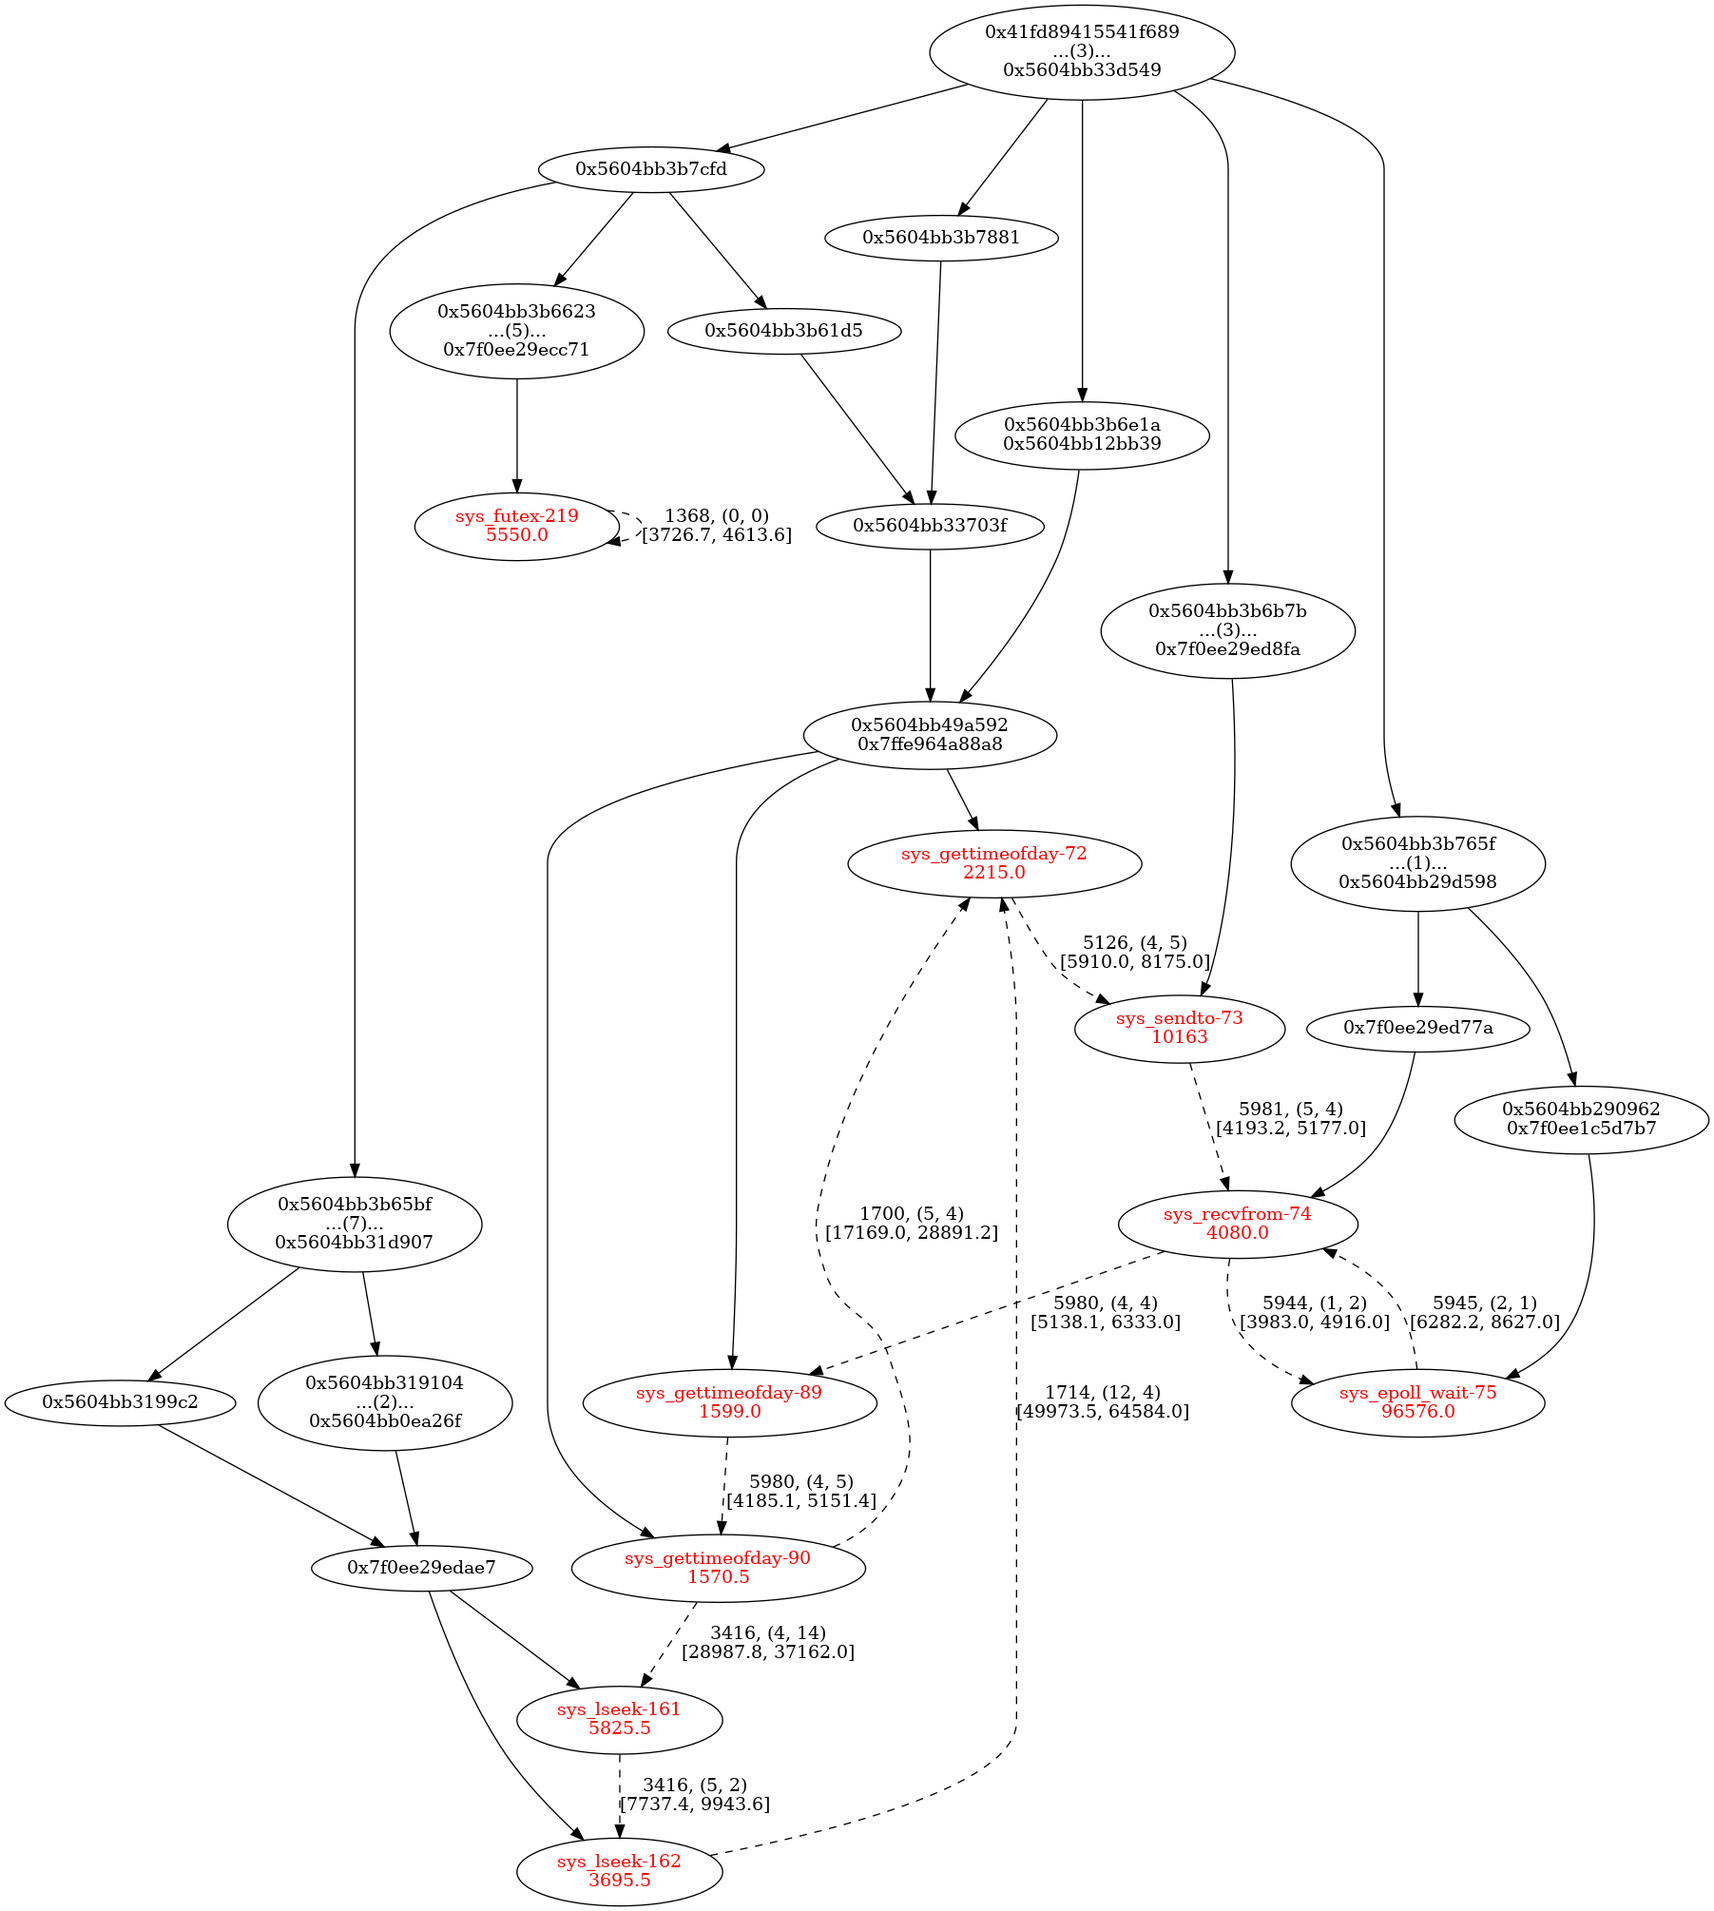
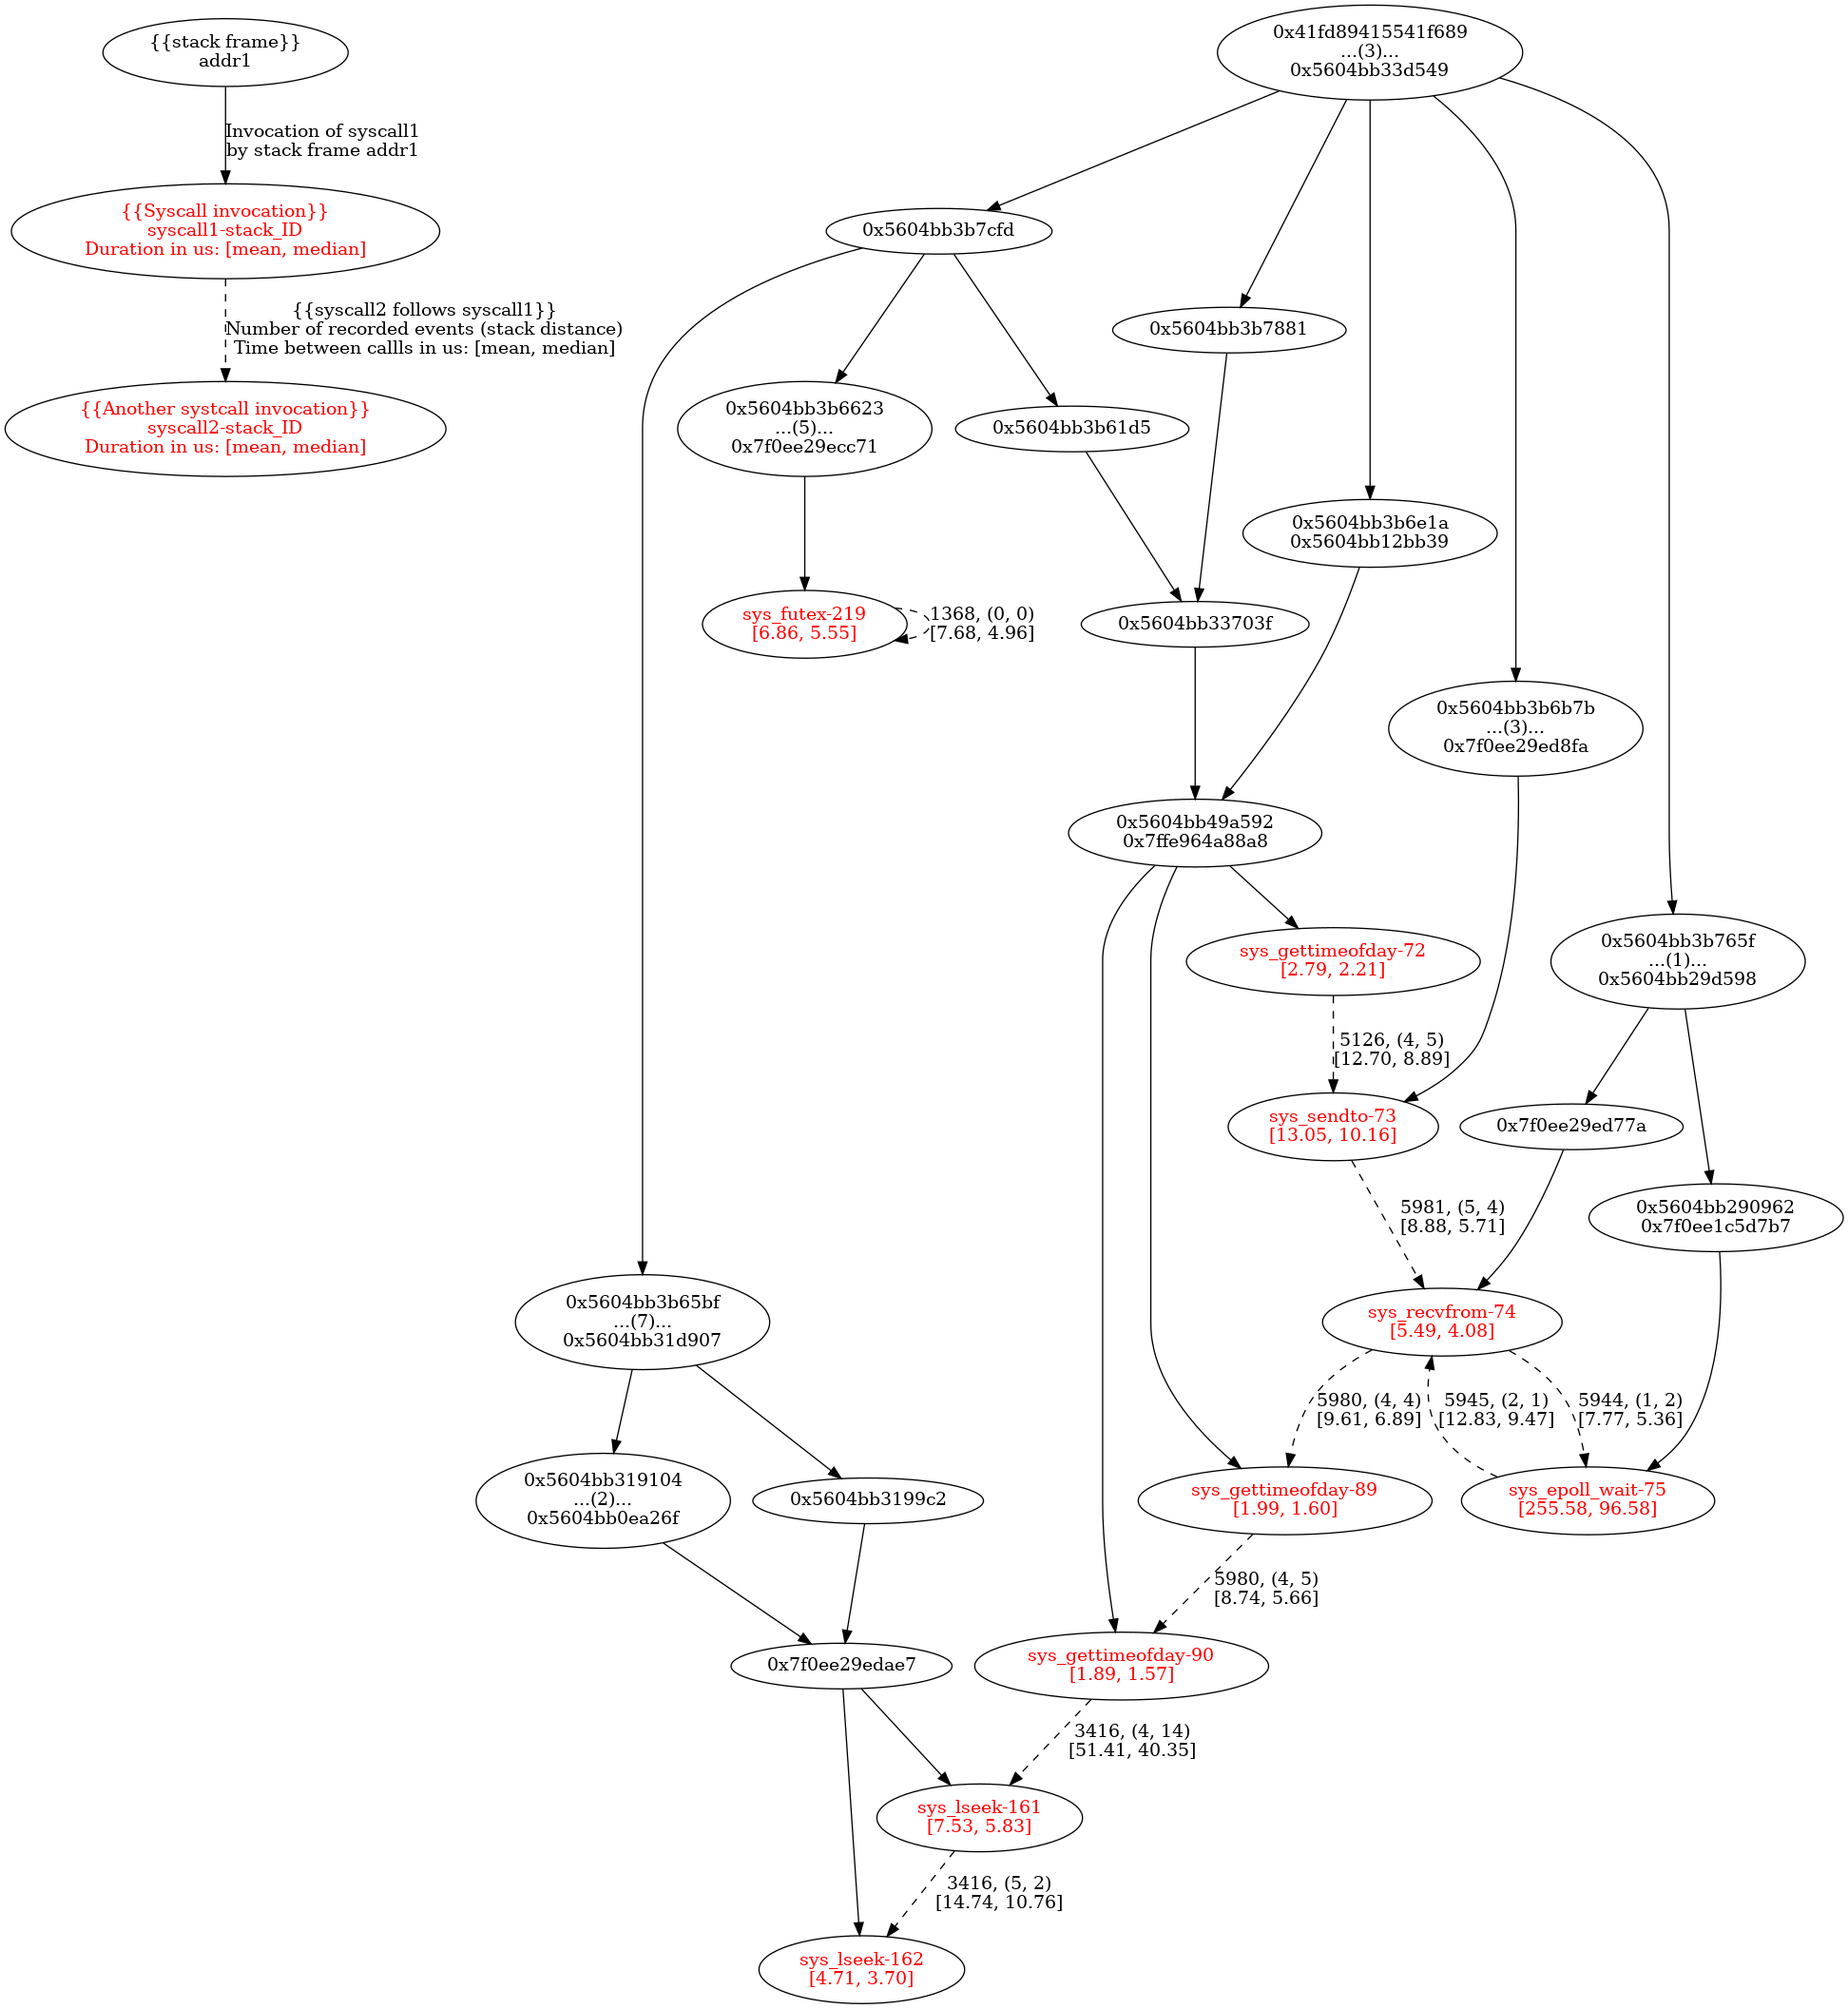
Add legend and change presentation a bit

diff --git a/harness/main.py b/harness/main.py
@@ -320,6 +320,7 @@ def _inv_node(inv):
 
 def build_thread_graph(thread, draw_userspace=True, span_pred=None):
     dot = graphviz.Digraph(strict=True)
+    draw_legend(dot)
 
     nr_spans = len(thread.userspace_spans)
     LOG.debug("Thread has %d spans", nr_spans)
@@ -340,7 +341,6 @@ def build_thread_graph(thread, draw_userspace=True, span_pred=None):
 
     for i, info in enumerate(valid_spans):
         i1, i2 = info.pairs[0]
-        quantiles = info.quantiles()
 
         LOG.debug(
             '[%d/%d] Processing span %r %r (%d)',
@@ -349,14 +349,16 @@ def build_thread_graph(thread, draw_userspace=True, span_pred=None):
         )
 
         for inv in (i1, i2):
-            median_duration = statistics.median(
+            durations = tuple(
                 i.duration_ns
                 for i in thread.invocations
                 if i.syscall_loc == inv.syscall_loc
             )
+            mean = statistics.mean(durations)
+            median = statistics.median(durations)
             label = (
                 _inv_node(inv) + '\n' +
-                f'{median_duration}'
+                f'[{mean / 1000:.2f}, {median / 1000:.2f}]'
             )
             dot.node(
                 _inv_node(inv),
@@ -382,10 +384,10 @@ def build_thread_graph(thread, draw_userspace=True, span_pred=None):
                         us_node.pretty_name,
                         _inv_node(inv),
                     )
-
+        mean, median = info.mean_median()
         label = (
             f'{len(info.pairs)}, {_stack_diff(i1.ustack, i2.ustack)}\n' +
-            f'[{quantiles[0]}, {quantiles[3]}]'
+            f'[{mean / 1000:.2f}, {median / 1000:.2f}]'
         )
         dot.edge(
             _inv_node(i1),
@@ -403,6 +405,47 @@ def build_thread_graph(thread, draw_userspace=True, span_pred=None):
                 dot.edge(tail.pretty_name, head.pretty_name)
 
     return dot
+
+
+def draw_legend(dot):
+    # Draw legend
+    dot.node(
+        'l0',
+        label='{{stack frame}}\naddr1'
+    )
+    dot.node(
+        'l1',
+        label=(
+            '{{Syscall invocation}}\n'
+            'syscall1-stack_ID\n'
+            'Duration in us: [mean, median]'
+        ),
+        fontcolor='red',
+    )
+    dot.node(
+        'l2',
+        label=(
+            '{{Another systcall invocation}}\n'
+            'syscall2-stack_ID\n'
+            'Duration in us: [mean, median]'
+        ),
+        fontcolor='red',
+    )
+    dot.edge(
+        'l0',
+        'l1',
+        label='Invocation of syscall1\nby stack frame addr1',
+    )
+    dot.edge(
+        'l1',
+        'l2',
+        style='dashed',
+        label=(
+            '{{syscall2 follows syscall1}}\n'
+            'Number of recorded events (stack distance)\n'
+            'Time between callls in us: [mean, median]'
+        )
+    )
 
 
 def dump_dot(dot, path):
@@ -426,8 +469,9 @@ def analyze_syscalls(opts):
     def span_pred(span_info):
         if len(span_info.pairs) < 1000:
             return False
-        # More than 100us apart?
-        if span_info.quantiles()[0] > 100000:
+        # More than 50us apart?
+        _, median = span_info.mean_median()
+        if median > 50000:
             return False
         return True
 

diff --git a/harness/analysis.py b/harness/analysis.py
@@ -57,6 +57,16 @@ class SpanInfo:
             n=n,
         )
 
+    def mean_median(self):
+        intervals = tuple(
+            i1.userspace_after
+            for i1, _ in self.pairs
+        )
+        return (
+            statistics.mean(intervals),
+            statistics.median(intervals),
+        )
+
 
 @dataclasses.dataclass
 class ThreadTrace:
